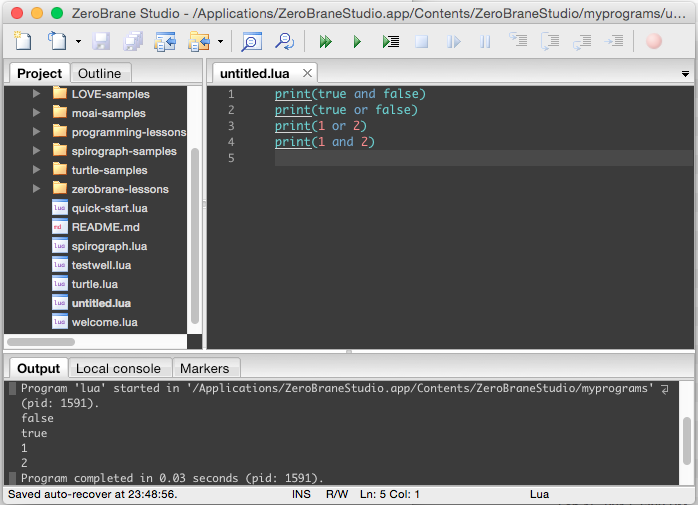
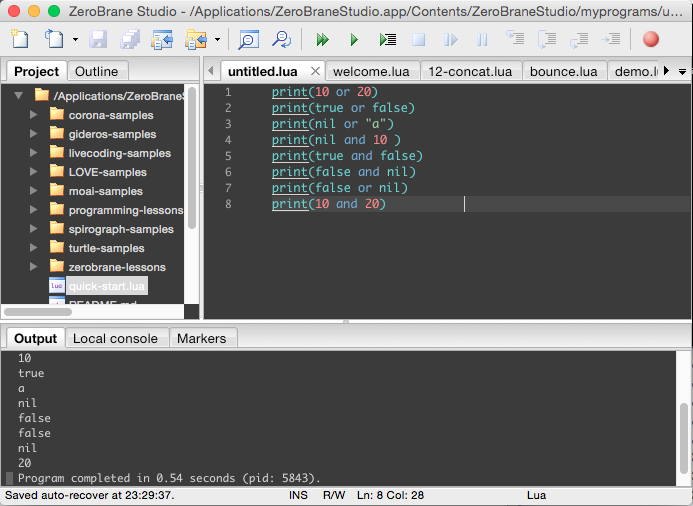
Modify Post: Lua - Logical operators

Changed region(s): [[0.0, 0.0, 1.0, 1.0], [0.7576, 0.9505, 0.7879, 1.0]]

diff --git a/source/_posts/Lua-Logical-operators.md b/source/_posts/Lua-Logical-operators.md
@@ -14,10 +14,14 @@ Lua 的邏輯運算會將 false 與 nil 視為 false，其它值視為 true。
 所以 and、or 運算寫起來就會像下面這樣。  
 
 ```Lua
-print(true and false)
-print(true or false)
-print(1 or 2)
-print(1 and 2)
+print(10 or 20)            
+print(true or false)    
+print(nil or "a")          
+print(nil and 10 )         
+print(true and false) 
+print(false and nil)       
+print(false or nil)        
+print(10 and 20)           
 ```
 
 <br/>
